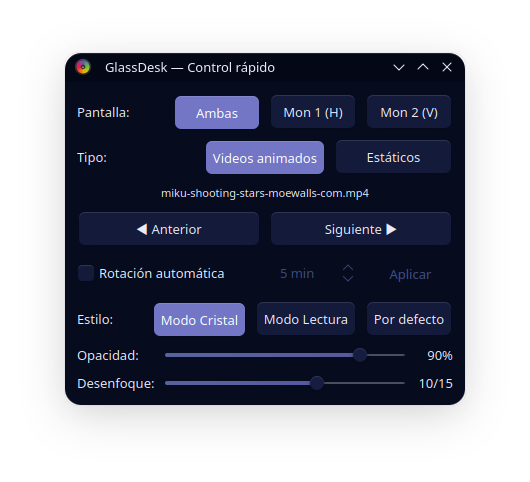
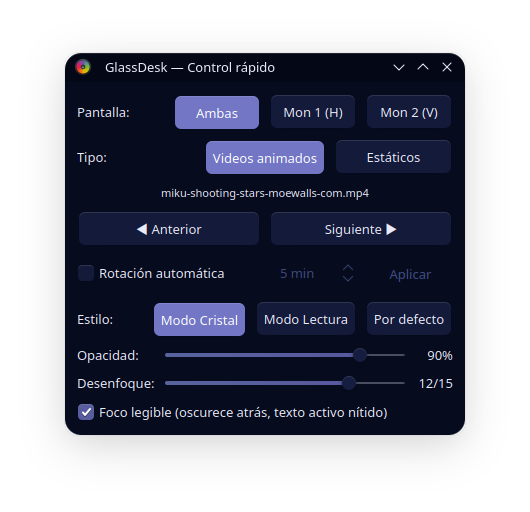
Add Foco legible mode (diminactive + crisp active text)

diff --git a/README.md b/README.md
@@ -17,7 +17,7 @@ Configuración personal para **KDE Plasma 6 (Wayland)** con estética *frosted-g
 
 ## Qué incluye y cómo funciona
 
-* **Estética cristal + desenfoque real:** Configura **Darkly** + **Better Blur DX** (`BlurStrength=10`, `CornerRadius=8`) para dar efecto vidrio esmerilado a ventanas nativas de KDE, Dolphin, menús y paneles, con barras deslizantes en tiempo real para ajustar **Opacidad (`40%–100%`)** y **Desenfoque (`1–15`)**.
+* **Estética cristal + desenfoque real:** Configura **Darkly** + **Better Blur DX** (`BlurStrength=12`, `CornerRadius=8`) para dar efecto vidrio esmerilado a ventanas nativas de KDE, Dolphin, menús y paneles, con barras deslizantes en tiempo real para ajustar **Opacidad (`40%–100%`)** y **Desenfoque (`1–15`)**, más botón **Por defecto** y **Foco legible** (`diminactive` que atenúa ventanas inactivas de atrás mientras mantiene el texto activo nítido).
 * **Transparencia selectiva (`kwinrulesrc`):** Aplica opacidad (`90%` activa / `84%` inactiva) **solo** a apps nativas de KDE (`Dolphin`, `Preferencias del sistema`, `Konsole`, `Kate`, `Ark`, `KCalc`, `Okular`, `Spectacle`). Navegadores, reproductores y YouTube permanecen al `100%` opacos.
 * **9 temas + acentos sincronizados:** `Tokyo Night`, `Ethereal`, `Kanagawa`, `Nord`, `Catppuccin`, `Matte Black`, `Jade Horse`, `Everforest` y `Gruvbox`, sincronizados con **KDE Plasma**, **Ptyxis** y **Konsole**.
 * **Soporte multimonitor inteligente:** Detecta dinámicamente cuántas pantallas activas tienes (si solo hay 1, oculta el selector de monitores) y detecta orientación **horizontal vs vertical** (usando `Vertical/` si hay contenido, o aplicando ajuste con relleno desenfocado si no).
